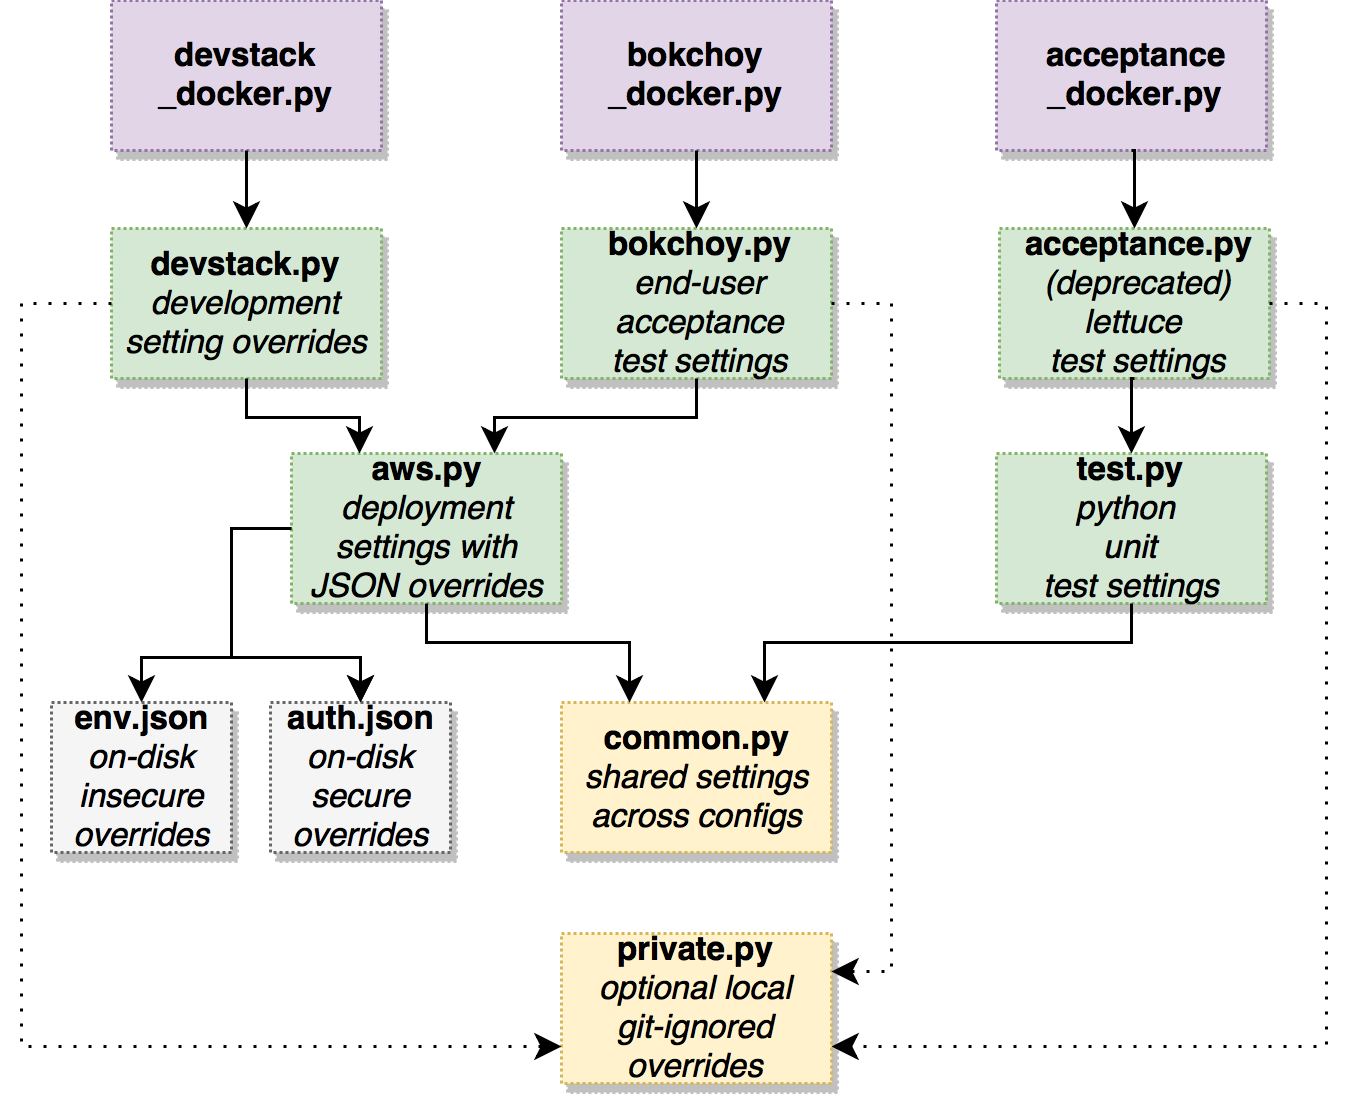
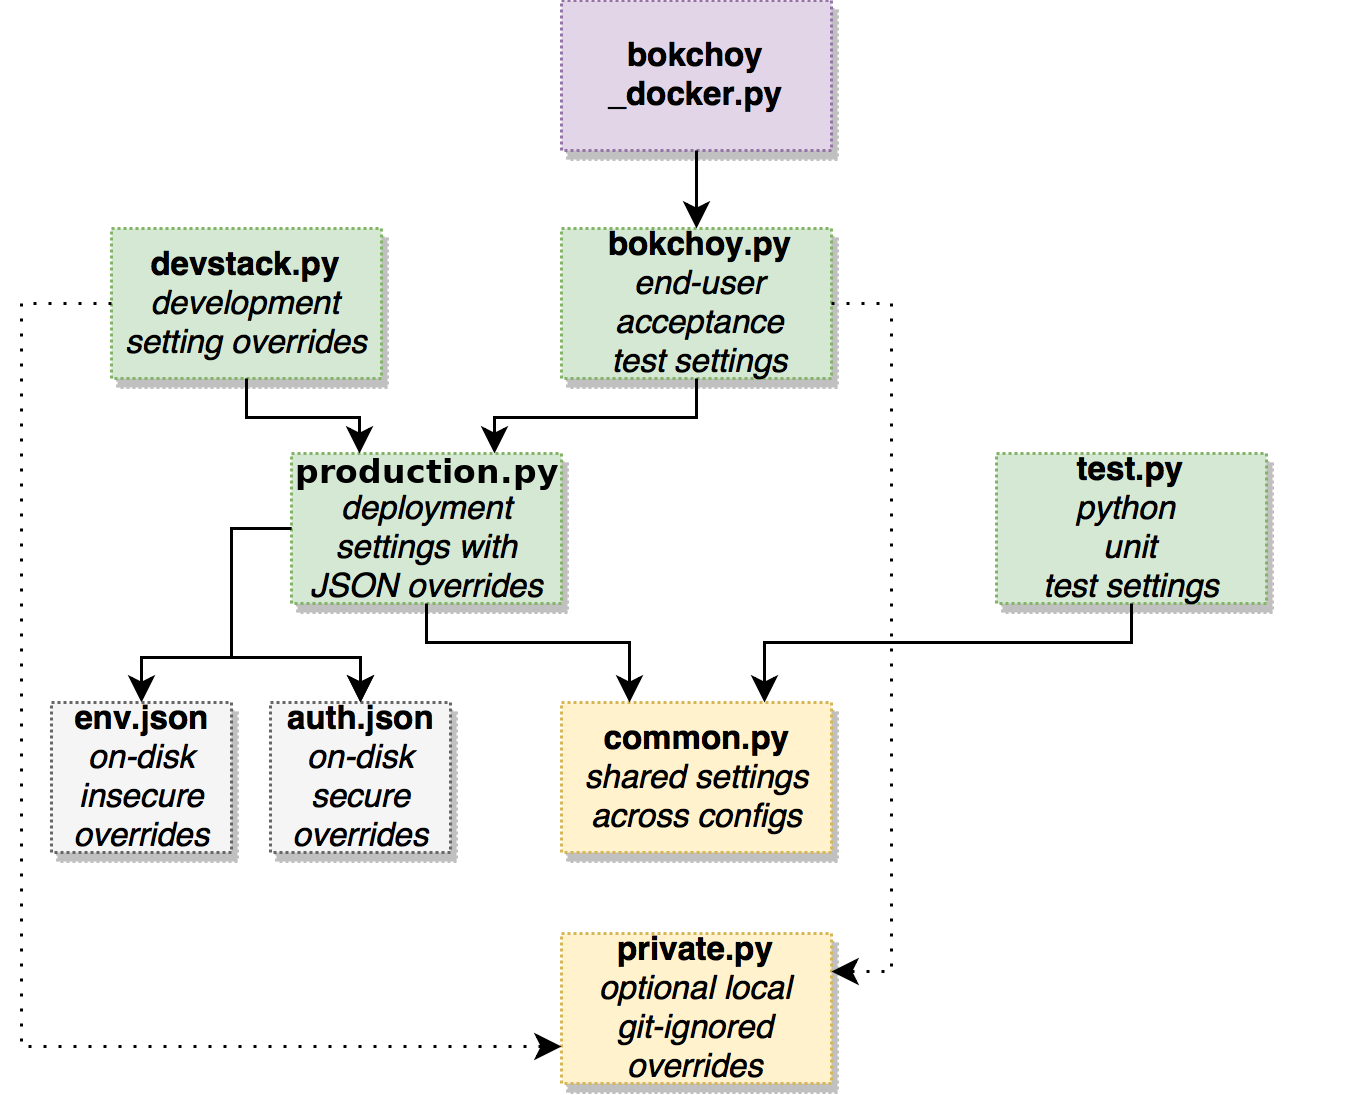
Envs doc updates: Django version, update aws.py reference in image (#24364)
- Reference correct version of Django docs
- Updates to LMS envs diagram:
    - Rename aws.py reference in image (now production.py)
    - Remove deprecated and deleted environments
- Update note on `devstack_docker.py` to explain history

diff --git a/lms/envs/devstack_docker.py b/lms/envs/devstack_docker.py
@@ -1,3 +1,9 @@
-""" Overrides for Docker-based devstack. """
+"""
+Left over environment file from before the transition of devstack from
+vagrant to docker was complete.
+
+This file should no longer be used, and is only around in case something
+still refers to it.
+"""
 
 from .devstack import *  # pylint: disable=wildcard-import, unused-wildcard-import

diff --git a/lms/envs/docs/README.rst b/lms/envs/docs/README.rst
@@ -4,7 +4,7 @@ LMS Configuration Settings
 The lms.envs module contains project-wide settings, defined in python modules
 using the standard `Django Settings`_ mechanism.
 
-.. _Django Settings: https://docs.djangoproject.com/en/1.11/topics/settings/
+.. _Django Settings: https://docs.djangoproject.com/en/2.2/topics/settings/
 
 Different python modules are used for different setting configuration options.
 To prevent duplication of settings, modules import values from other modules,
